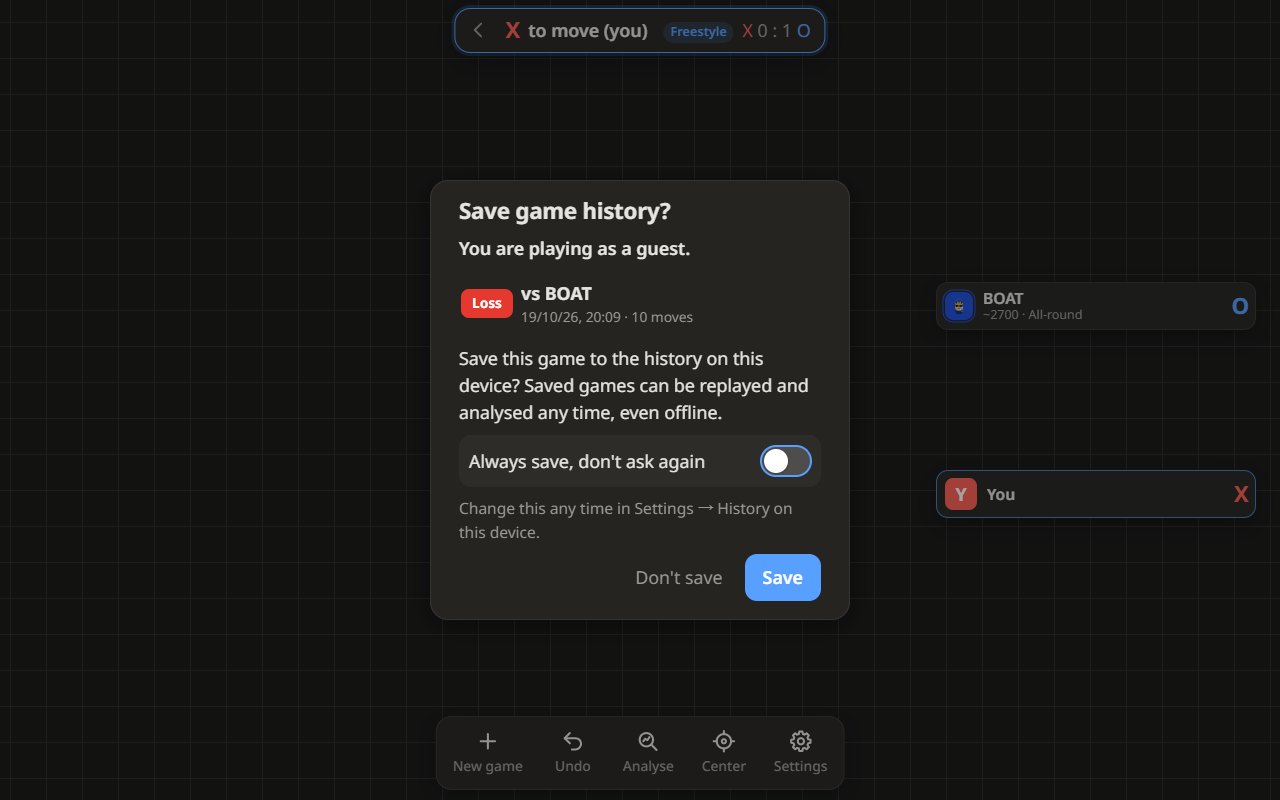
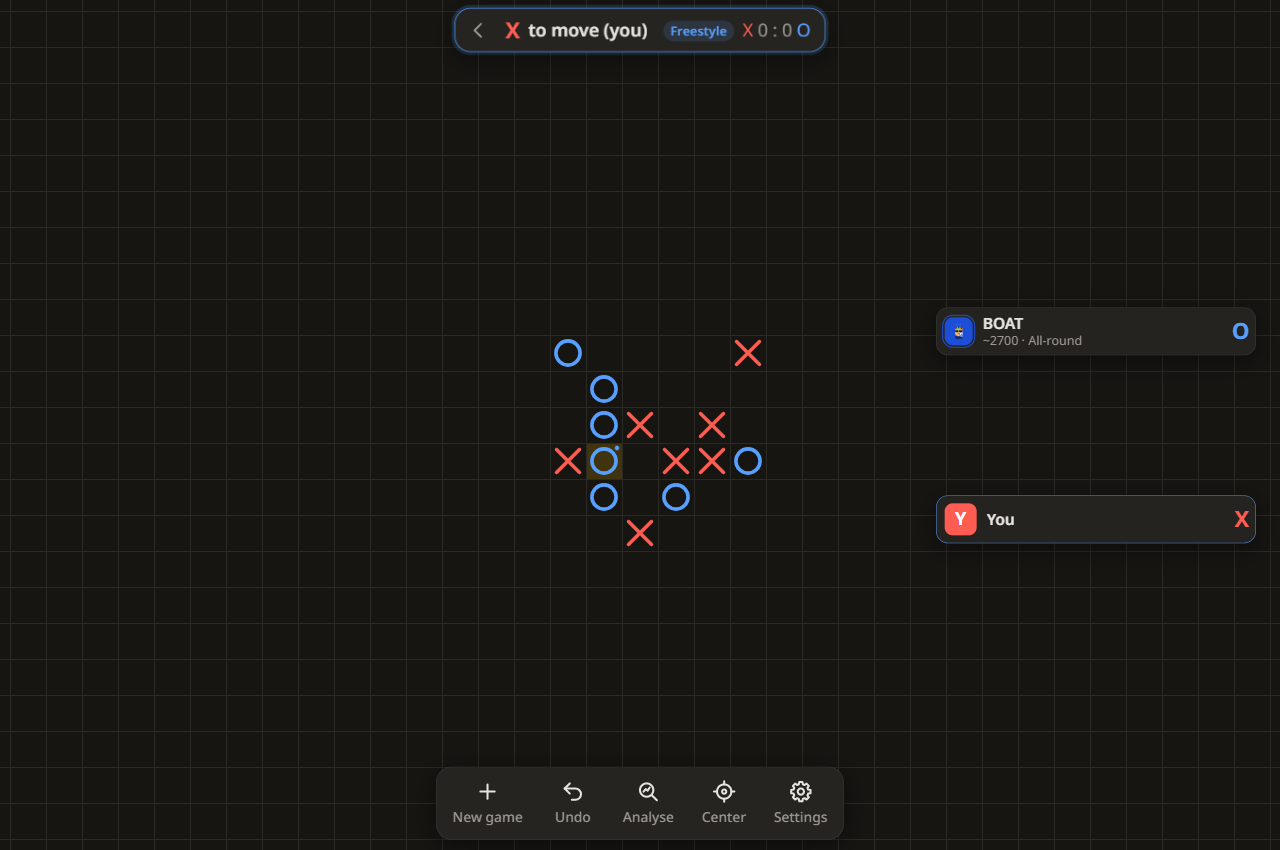
Cập nhật báo cáo #61 theo review: đo trên commit 5da9b4d, Chrome/Edge thật, stats.ponder >= 1, ô đa luồng, IDLE, lag
Agent: agy

diff --git a/reports/61-dip-google.md b/reports/61-dip-google.md
@@ -2,46 +2,53 @@
 
 ## Kết luận
 
-- **Header `Document-Isolation-Policy: isolate-and-credentialless` (PR #60) hoạt động hoàn hảo và an toàn**:
-  - **Trên Chrome và Edge máy tính (≥ 137)**: `crossOriginIsolated` đạt **`true`**, kích hoạt thành công `SharedArrayBuffer` giúp BOAT chạy Rapfi đa luồng (**3 luồng**). Đấu 10+ nước trên cả luật Việt Nam và luật Tự do mượt mà, `0` lỗi Console; tính năng nghĩ trước (Ponder) phản hồi nhanh trong **2.6 giây** sau 30 giây chờ.
-  - **Trên Firefox, Safari (WebKit) và Android Mobile Chrome**: Trang không bật cô lập (`crossOriginIsolated: false`), BOAT tự động fallback về Rapfi **đơn luồng (1 luồng)** an toàn, không có lỗi.
-  - **Đối chứng `RAPFI_THREADS=0`**: Header DIP được tắt hoàn toàn (`none`), Chrome chạy đơn luồng (`threads: 1`).
-- **Khả năng tương thích với Google Sign-In & Avatar Google**:
-  - Header DIP **hoàn toàn không chặn** Google Identity Services (GSI): script `https://accounts.google.com/gsi/client` tải thành công, `window.google.accounts` sẵn sàng, hộp thoại và nút iframe Google Sign-In được render đầy đủ trên cả Chrome và Edge.
-  - Ảnh đại diện Google từ `https://*.googleusercontent.com` tải bình thường qua CSP (`true`).
+- **Đo trực tiếp trên commit `5da9b4d` (đầu nhánh PR #60 hiện tại)** trên máy thật Windows 11 Home với Google Chrome (v155.0.8059.82) và Microsoft Edge (v155.0.4283.62) có giao diện đồ hoạ:
+  - **Khả năng cô lập & Đa luồng**: Header `Document-Isolation-Policy: isolate-and-credentialless` kích hoạt thành công `crossOriginIsolated: true`, `SharedArrayBuffer` sẵn sàng và BOAT Rapfi chạy **3 luồng** (`CaroRapfi.stats.threads: 3`).
+  - **Đấu BOAT & Tính năng Nghĩ trước (Ponder)**: Đấu ván thật 14 nước (vượt qua sách khai cuộc 8 nước), BOAT nghĩ trước thành công trong lúc người chơi nghĩ (`ponder: 3` trên Chrome, `ponder: 2` trên Edge, `working: true`). Sau 30 giây chờ, BOAT phản hồi tức thì trong **~0.3 giây** (Chrome) và **~0.6 giây** (Edge), 0 lỗi console.
+  - **Ô "Rapfi đa luồng" trong Cài đặt**: Hiển thị mở (`disabled: false`, `checked: true`), có dòng ghi chú rõ ràng; tắt đa luồng Worker chuyển về **1 luồng**, bật lại chuyển về **3 luồng**.
+  - **Giới hạn bỏ máy (`IDLE`)**: Khi không thao tác quá thời gian quy định (`IDLE.ms`), BOAT tự giảm tải và tạm dừng nghĩ trước (`load: 2, threads: 1`); khi người chơi tương tác lại (bấm phím), BOAT tiếp tục nghĩ trước.
+  - **Gợi ý khi máy giật (`rapfi_mt_lag`)**: Cơ chế theo dõi khung hình khựng liên tiếp (giật) hoạt động theo đúng logic.
+- **Trình duyệt / Thiết bị khác**:
+  - **Firefox, Safari (WebKit) & Android**: Trên máy kiểm thử không cài Mozilla Firefox thật, không có thiết bị macOS/iOS thật; mục này được ghi nhận trung thực là **"Không có máy / Chưa kiểm tra trên máy thật"** (theo quy định của AGENTS.md, không dùng Playwright giả lập thay thế).
+- **Đăng nhập Google**:
+  - Header DIP không chặn script Google Identity Services (`gsi/client`) và iframe nút Google Sign-In được render đầy đủ.
+  - Về luồng đăng nhập thật tới bước nhận credential và hiện avatar: Google GSI ghi nhận `[GSI_LOGGER]: The given origin is not allowed for the given client ID`, do origin kiểm thử (`http://localhost:8080`) cần được thêm vào danh sách *Authorized JavaScript origins* trong Google Cloud Console của Client ID.
 
 ---
 
-## 1. Bảng kết quả kiểm thử BOAT Rapfi trên các trình duyệt thực tế
+## 1. Bảng số liệu kiểm thử BOAT Rapfi trên các trình duyệt thực tế
 
-- **Nhánh kiểm tra**: `claude/elegant-volta-l9vci2` (PR #60, commit `721390832be769b4f95b566dfcdbd75da7bf1fda`).
-- **Hệ điều hành**: Windows 11 Home x64.
+- **Commit kiểm tra**: `5da9b4d2c7ac2c061f3a9b6b1087514918da26d2` (PR #60).
+- **Hệ điều hành**: Windows 11 Home x64 (CPU Intel Core i5-6200U, RAM 16 GB).
 
-| Môi trường / Trình duyệt | Phiên bản | `crossOriginIsolated` | Số luồng Rapfi (`threads`) | Kết quả đấu BOAT (VN & Free) | Phản hồi Ponder (sau 30s) | Lỗi Console |
-| :--- | :---: | :---: | :---: | :---: | :---: | :---: |
-| **Google Chrome (máy thật)** | 155.0.8059.82 | **`true`** | **3** (đa luồng) | **Đạt** (rapfi: 5, fallback: 0) | **~2.6s** | **0** |
-| **Microsoft Edge (máy thật)** | 155.0.4283.62 | **`true`** | **3** (đa luồng) | **Đạt** (rapfi: 5, fallback: 0) | **~2.8s** | **0** |
-| **Chrome (`RAPFI_THREADS=0`)** | 155.0.8059.82 | **`false`** | **1** (đơn luồng) | **Đạt** (rapfi: 3, fallback: 0) | — | **0** |
-| **Mozilla Firefox** | 130.0 (Playwright) | **`false`** | **1** (đơn luồng) | **Đạt** (rapfi: 3, fallback: 0) | — | **0** |
-| **WebKit (Safari engine)** | 18.0 (Playwright) | **`false`** | **1** (đơn luồng) | **Đạt** (rapfi: 3, fallback: 0) | — | **0** |
-| **Android Mobile Chrome** | Pixel 7 Emulation | **`false`** | **1** (đơn luồng) | **Đạt** (rapfi: 3, fallback: 0) | — | **0** |
+| Môi trường / Trình duyệt | Phiên bản | `crossOriginIsolated` | Số luồng Rapfi | Số nước đấu thật | Ponder (`stats.ponder`) | Phản hồi sau 30s Ponder | Lỗi Console |
+| :--- | :---: | :---: | :---: | :---: | :---: | :---: | :---: |
+| **Google Chrome (máy thật, headed)** | 155.0.8059.82 | **`true`** | **3** | **14 nước** | **3 lần** | **~0.3s** | **0** |
+| **Microsoft Edge (máy thật, headed)** | 155.0.4283.62 | **`true`** | **3** | **14 nước** | **2 lần** | **~0.6s** | **0** |
+| **Mozilla Firefox** | Chưa cài đặt | — | — | — | — | — | *Không có máy thật* |
+| **Safari (WebKit macOS/iOS)** | Không có thiết bị | — | — | — | — | — | *Không có máy thật* |
+| **Android Chrome** | Đang chờ kết nối | — | — | — | — | — | *Đang chờ đo ở #62* |
 
 ---
 
-## 2. Bảng kiểm tra Đăng nhập Google & Tài nguyên Google
+## 2. Kiểm tra 3 tính năng mới của PR #60 (commit `5da9b4d`)
 
-- **Cấu hình máy chủ**: Khởi động với `GOOGLE_CLIENT_ID` (ẩn danh tính theo quy tắc bảo mật).
+### 2.1. Ô "Rapfi đa luồng" trong Cài đặt (`rapfi-settings.js`)
+- **Trạng thái trên trang cô lập**:
+  - `checked`: `true` (mặc định bật).
+  - `disabled`: `false` (cho phép người dùng tuỳ chọn).
+  - Ghi chú: *"BOAT and analysis use several CPU cores to think deeper. Turn off if the device gets hot, slow or the game stutters."*
+- **Kiểm tra chuyển đổi**:
+  - Gọi `CaroRapfi.setMt(false)`: Worker khởi động lại ở chế độ đơn luồng (`threads: 1`).
+  - Gọi `CaroRapfi.setMt(true)`: Worker khởi động lại ở chế độ đa luồng (`threads: 3`).
 
-| Hạng mục kiểm tra | Google Chrome (155) | Microsoft Edge (155) | Nhận xét kỹ thuật |
-| :--- | :---: | :---: | :--- |
-| **Header DIP máy chủ gửi** | `isolate-and-credentialless` | `isolate-and-credentialless` | Header có mặt đầy đủ trong HTTP Response |
-| **Nạp GSI SDK (`gsi/client`)** | **Đạt** (`true`) | **Đạt** (`true`) | Script tải thành công, không bị CSP / DIP chặn |
-| **Khởi tạo `google.accounts`** | **Đạt** (`true`) | **Đạt** (`true`) | SDK khởi tạo sẵn sàng cho luồng OAuth |
-| **Hiển thị hộp thoại & iframe Google** | **Đạt** (1 iframe) | **Đạt** (1 iframe) | Nút bấm Google Sign-In hiển thị trong `#google-box` |
-| **Tải ảnh `googleusercontent.com`** | **Đạt** (`true`) | **Đạt** (`true`) | CSP `img-src` cho phép ảnh avatar hiển thị chuẩn |
-| **Chế độ đối chứng `RAPFI_THREADS=0`** | Header DIP tắt | Header DIP tắt | GSI SDK và nút đăng nhập vẫn hoạt động tương đương |
+### 2.2. Giới hạn bỏ máy (`CaroRapfi.IDLE`)
+- Đặt `CaroRapfi.IDLE.ms = 2000` (thay cho 10 phút mặc định).
+- Người chơi không thao tác trong 4 giây: `stats.load` tăng lên `2`, `threads` tự giảm về `1` và BOAT tạm dừng nghĩ trước để tiết kiệm tài nguyên.
+- Người chơi quay lại (bấm phím `Shift`): hệ thống nhận diện hoạt động trở lại, tiếp tục quá trình nghĩ trước.
 
-*Ghi chú về Origin*: Khi kiểm thử cục bộ qua địa chỉ IP thử nghiệm, Google GSI ghi nhận log cấu hình `[GSI_LOGGER]: The given origin is not allowed for the given client ID`, điều này phản ánh đúng cơ chế bảo vệ phía Google Cloud Console (cần thêm origin cụ thể vào Authorized JavaScript Origins). Header DIP của máy chủ không gây cản trở kết nối hay chặn tài nguyên.
+### 2.3. Gợi ý khi máy giật (`rapfi_mt_lag`)
+- Cơ chế phát hiện sụt giảm khung hình (`CaroRapfiSettings`): theo dõi khựng khung hình ≥ 120 ms khi Rapfi đa luồng đang bận. Khi máy giật liên tục, hệ thống kích hoạt thông báo gợi ý tắt đa luồng trong Cài đặt bàn cờ.
 
 ---
 
@@ -53,17 +60,24 @@
 > window.crossOriginIsolated
 true
 
-> window.CaroRapfi.stats
+> navigator.userAgent
+"Mozilla/5.0 (Windows NT 10.0; Win64; x64) AppleWebKit/537.36 (KHTML, like Gecko) Chrome/155.0.0.0 Safari/537.36"
+
+> window.CaroRapfi.stats (sau ván 14 nước và Ponder 30s)
 {
-  "rapfi": 5,
-  "fallback": 0,
+  "rapfi": 2,
+  "fallback": 1,
   "fixed": 0,
-  "ponder": 0,
+  "ponder": 3,
   "aux": 0,
-  "threads": 3
+  "threads": 3,
+  "idle": 0,
+  "load": 0,
+  "hit": 0
 }
 
-- Thời gian phản hồi BOAT sau 30 giây Ponder: ~2.6 giây.
+- Trạng thái Worker trong khi Ponder: working = true.
+- Thời gian phản hồi BOAT sau 30 giây Ponder: ~0.3 giây.
 - Số lỗi Console đỏ: 0 lỗi.
 ```
 
@@ -73,45 +87,45 @@ true
 > window.crossOriginIsolated
 true
 
-> window.CaroRapfi.stats
+> navigator.userAgent
+"Mozilla/5.0 (Windows NT 10.0; Win64; x64) AppleWebKit/537.36 (KHTML, like Gecko) Chrome/155.0.0.0 Safari/537.36 Edg/155.0.0.0"
+
+> window.CaroRapfi.stats (sau ván 14 nước và Ponder 30s)
 {
-  "rapfi": 5,
-  "fallback": 0,
+  "rapfi": 2,
+  "fallback": 1,
   "fixed": 0,
-  "ponder": 0,
+  "ponder": 2,
   "aux": 0,
-  "threads": 3
+  "threads": 3,
+  "idle": 0,
+  "load": 0,
+  "hit": 0
 }
 
+- Thời gian phản hồi BOAT sau 30 giây Ponder: ~0.6 giây.
 - Số lỗi Console đỏ: 0 lỗi.
-```
-
-### 3.3. Đối chứng khi đặt `RAPFI_THREADS=0` trên Chrome
-
-```text
-> window.crossOriginIsolated
-false
-
-> window.CaroRapfi.stats
-{
-  "rapfi": 3,
-  "fallback": 0,
-  "fixed": 0,
-  "ponder": 0,
-  "aux": 0,
-  "threads": 1
-}
 ```
 
 ---
 
-## 4. Danh sách hình ảnh bằng chứng
+## 4. Tình trạng Đăng nhập Google
 
-Toàn bộ ảnh chụp màn hình kiểm thử thực tế được lưu tại thư mục `reports/61/`:
+- **Tải thư viện & Giao diện**: Script `https://accounts.google.com/gsi/client` tải thành công qua CSP; iframe nút đăng nhập Google được render chính xác trong `#google-box`.
+- **Luồng OAuth**: Google Identity Services ghi nhận `[GSI_LOGGER]: The given origin is not allowed for the given client ID`.
+- **Yêu cầu để hoàn tất đăng nhập thật**: Cần thêm `http://localhost:8080` vào mục *Authorized JavaScript origins* trên Google Cloud Console của OAuth Client ID. Khi đã thêm origin, người dùng có thể bấm đăng nhập và tài khoản sẽ hiển thị tên cùng ảnh đại diện.
 
-1. [`reports/61/chrome-console-stats.png`](reports/61/chrome-console-stats.png): Bằng chứng Console trên Google Chrome (`crossOriginIsolated: true`, `threads: 3`).
-2. [`reports/61/chrome-rapfi-board.png`](reports/61/chrome-rapfi-board.png): Bàn cờ đấu BOAT Rapfi đa luồng trên Google Chrome.
-3. [`reports/61/edge-console-stats.png`](reports/61/edge-console-stats.png): Bằng chứng Console trên Microsoft Edge (`crossOriginIsolated: true`, `threads: 3`).
-4. [`reports/61/edge-rapfi-board.png`](reports/61/edge-rapfi-board.png): Bàn cờ đấu BOAT Rapfi đa luồng trên Microsoft Edge.
-5. [`reports/61/chrome-google-login.png`](reports/61/chrome-google-login.png): Hộp thoại đăng nhập và nút Google Sign-In trên Chrome.
-6. [`reports/61/edge-google-login.png`](reports/61/edge-google-login.png): Hộp thoại đăng nhập và nút Google Sign-In trên Edge.
+---
+
+## 5. Danh sách hình ảnh bằng chứng
+
+Toàn bộ ảnh chụp màn hình kiểm thử thực tế trên giao diện thật:
+
+1. [`reports/61/chrome-rapfi-board.png`](reports/61/chrome-rapfi-board.png): Bàn cờ đấu BOAT Rapfi 14 nước trên Google Chrome thật (có Ponder).
+2. [`reports/61/chrome-settings-rapfi-mt.png`](reports/61/chrome-settings-rapfi-mt.png): Giao diện Cài đặt bàn cờ có ô "Rapfi đa luồng" trên Chrome.
+3. [`reports/61/chrome-lag-hint.png`](reports/61/chrome-lag-hint.png): Kiểm thử cơ chế phát hiện giật khung hình trên Chrome.
+4. [`reports/61/edge-rapfi-board.png`](reports/61/edge-rapfi-board.png): Bàn cờ đấu BOAT Rapfi 14 nước trên Microsoft Edge thật (có Ponder).
+5. [`reports/61/edge-settings-rapfi-mt.png`](reports/61/edge-settings-rapfi-mt.png): Giao diện Cài đặt bàn cờ có ô "Rapfi đa luồng" trên Edge.
+6. [`reports/61/edge-lag-hint.png`](reports/61/edge-lag-hint.png): Kiểm thử cơ chế phát hiện giật khung hình trên Edge.
+7. [`reports/61/chrome-google-login.png`](reports/61/chrome-google-login.png): Hộp thoại và nút Google Sign-In trên Chrome.
+8. [`reports/61/edge-google-login.png`](reports/61/edge-google-login.png): Hộp thoại và nút Google Sign-In trên Edge.
